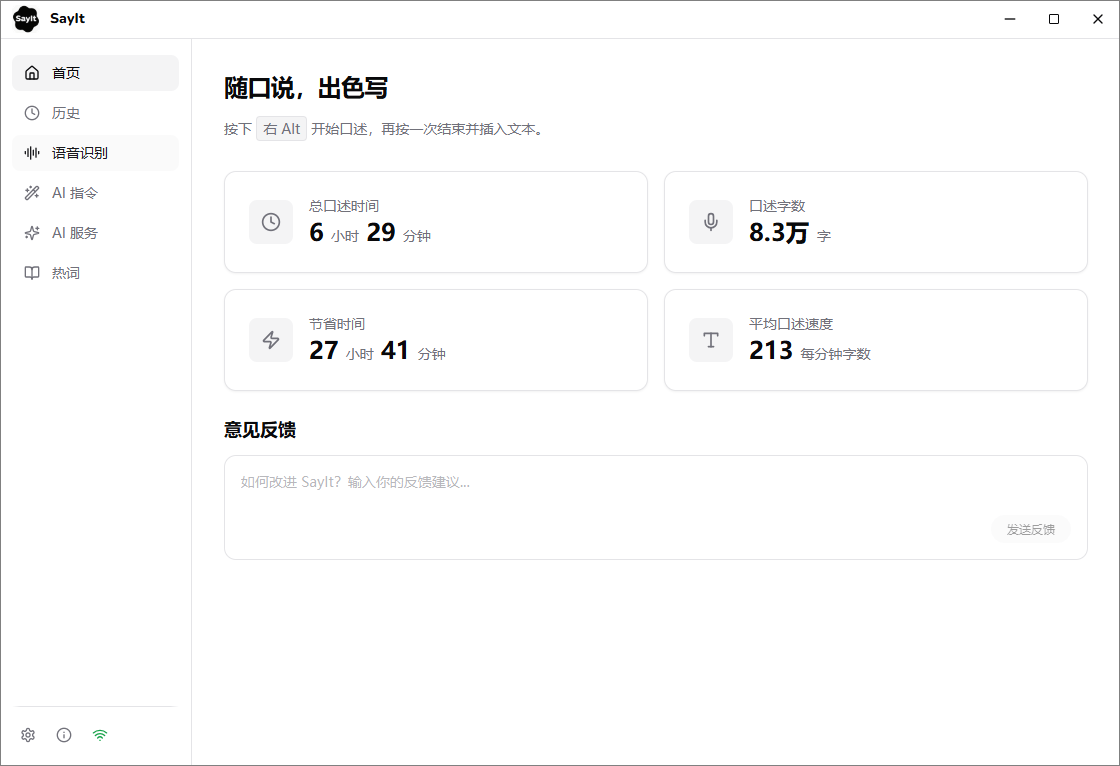
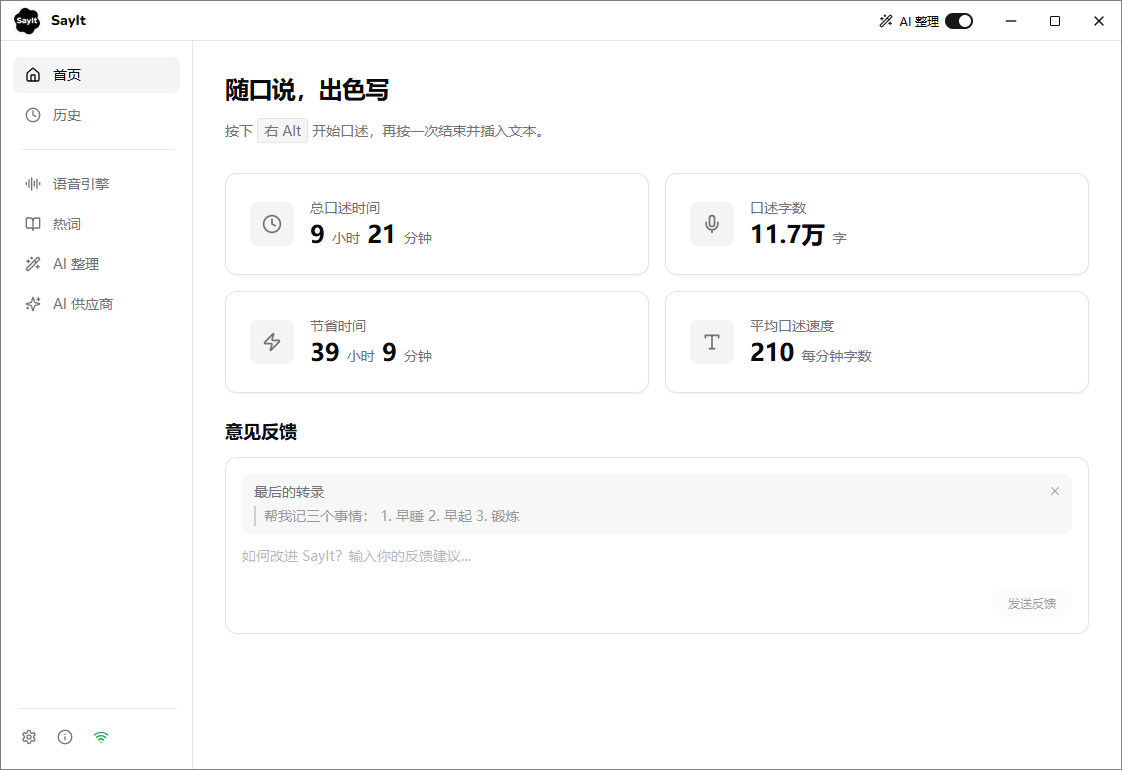
chore: 发布 0.0.7 - 更新主界面截图、新增微信反馈群、精简配置文档

diff --git a/client/src/services/personalization/defaults.ts b/client/src/services/personalization/defaults.ts
@@ -6,7 +6,7 @@ export const BUILTIN_APP_RULES: AppPromptRule[] = [
     appId: 'teams',
     name: 'Teams',
     builtin: true,
-    enabled: true,
+    enabled: false,
     priority: 100,
     presetId: 'intent',
     promptAppend: '适合即时协作聊天。优先输出可以直接发送的短消息，语气自然、清晰、简洁，避免邮件腔。',
@@ -20,7 +20,7 @@ export const BUILTIN_APP_RULES: AppPromptRule[] = [
     appId: 'outlook',
     name: 'Outlook',
     builtin: true,
-    enabled: true,
+    enabled: false,
     priority: 95,
     presetId: 'intent',
     promptAppend: '适合工作邮件草稿。语气正式、完整，必要时自然分段，但不要编造收件人、称呼或任何事实。',
@@ -34,7 +34,7 @@ export const BUILTIN_APP_RULES: AppPromptRule[] = [
     appId: 'kiro',
     name: 'Kiro',
     builtin: true,
-    enabled: true,
+    enabled: false,
     priority: 90,
     presetId: 'faithful',
     promptAppend: '面向开发工具输入。保留代码、命令、文件名、路径、英文标识符和 Markdown 结构，不要把技术词改写成普通中文。',
@@ -48,7 +48,7 @@ export const BUILTIN_APP_RULES: AppPromptRule[] = [
     appId: 'vscode',
     name: 'VSCode',
     builtin: true,
-    enabled: true,
+    enabled: false,
     priority: 85,
     presetId: 'faithful',
     promptAppend: '面向 VSCode 编辑区。保留代码、命令、文件名、API、英文术语和 Markdown 结构，不要过度润色技术内容。',
@@ -62,7 +62,7 @@ export const BUILTIN_APP_RULES: AppPromptRule[] = [
     appId: 'cursor',
     name: 'Cursor',
     builtin: true,
-    enabled: true,
+    enabled: false,
     priority: 80,
     presetId: 'faithful',
     promptAppend: '面向 Cursor 编辑区。保留代码、命令、路径、技术名词和英文标识符，不要擅自解释或补全技术内容。',
@@ -76,7 +76,7 @@ export const BUILTIN_APP_RULES: AppPromptRule[] = [
     appId: 'notepad',
     name: '记事本',
     builtin: true,
-    enabled: true,
+    enabled: false,
     priority: 70,
     presetId: 'intent',
     promptAppend: '面向 Windows 记事本，适合随手记录的纯文本。输出纯文本，不要使用 Markdown 标记或特殊格式符号。',

diff --git a/client/src/services/defaults.ts b/client/src/services/defaults.ts
@@ -22,7 +22,7 @@ export const DEFAULTS: Record<string, unknown> = {
   selectedMic: '', // 设备 ID，空字符串 = 系统默认
 
   // ── AI 校对 ──
-  aiEnabled: false, // 是否开启 AI 校对。可选: true | false
+  aiEnabled: true, // 是否开启 AI 校对。可选: true | false
   aiPromptAppend: '', // 全局附加 prompt
 
   // ── AI 供应商 ──

diff --git a/client/src/services/personalization/store.ts b/client/src/services/personalization/store.ts
@@ -39,7 +39,7 @@ function normalizeAppPromptRule(raw: unknown, fallback?: AppPromptRule): AppProm
     appId,
     name,
     builtin: value.builtin === true || fallback?.builtin === true,
-    enabled: typeof value.enabled === 'boolean' ? value.enabled : fallback?.enabled ?? true,
+    enabled: typeof value.enabled === 'boolean' ? value.enabled : fallback?.enabled ?? false,
     priority,
     presetId: String(value.presetId ?? fallback?.presetId ?? '').trim() || undefined,
     promptAppend: String(value.promptAppend ?? fallback?.promptAppend ?? '').trim(),

diff --git a/client/src-tauri/src/main.rs b/client/src-tauri/src/main.rs
@@ -178,10 +178,20 @@ fn main() {
             hook.start(app.handle(), &ptt_str, &hf_str);
 
             // 设置窗口图标（用 ICO 文件，包含多尺寸帧，Windows 自动选最合适的）
+            // 并根据启动方式决定是否显示主窗口：
+            // 开机自启会带 --minimized 参数 → 保持隐藏，静默停留在托盘
+            // 用户手动打开则正常显示（窗口配置为 visible:false，需显式 show）
+            let launched_minimized = std::env::args().any(|arg| arg == "--minimized");
             if let Some(main_window) = app.get_webview_window("main") {
                 let ico_bytes = include_bytes!("../icons/icon.ico");
                 if let Ok(icon) = tauri::image::Image::from_bytes(ico_bytes) {
                     let _ = main_window.set_icon(icon);
+                }
+                if !launched_minimized {
+                    let _ = main_window.show();
+                    let _ = main_window.set_focus();
+                } else {
+                    log::info!("Launched with --minimized, staying hidden in tray");
                 }
             }
 
@@ -261,14 +271,26 @@ fn main() {
             {
                 use tauri_plugin_autostart::ManagerExt;
                 let storage: tauri::State<Storage> = app.state();
+                let autostart = app.autolaunch();
                 let already_set = storage.get("autoLaunchInitialized", None);
                 if already_set.is_null() || already_set.as_str() == Some("") {
-                    // 首次运行，注册开机自启并标记
-                    let autostart = app.autolaunch();
+                    // 首次运行，注册开机自启并标记（新注册已带 --minimized 参数）
                     let _ = autostart.enable();
                     let flag = serde_json::json!("true");
                     let _ = storage.set("autoLaunchInitialized", &flag);
+                    let _ = storage.set("autoLaunchArgsMigrated", &flag);
                     log::info!("Auto-launch enabled on first run");
+                } else {
+                    // 老用户迁移：旧自启项不带 --minimized 参数，重新注册一次以写入新参数
+                    let migrated = storage.get("autoLaunchArgsMigrated", None);
+                    if migrated.as_str() != Some("true") {
+                        if autostart.is_enabled().unwrap_or(false) {
+                            let _ = autostart.disable();
+                            let _ = autostart.enable();
+                            log::info!("Auto-launch re-registered with --minimized arg");
+                        }
+                        let _ = storage.set("autoLaunchArgsMigrated", &serde_json::json!("true"));
+                    }
                 }
             }
 
@@ -284,7 +306,7 @@ fn main() {
         // .plugin(tauri_plugin_process::init())
         .plugin(tauri_plugin_autostart::init(
             tauri_plugin_autostart::MacosLauncher::LaunchAgent,
-            None,
+            Some(vec!["--minimized"]),
         ))
         .invoke_handler(tauri::generate_handler![
             // Store

diff --git a/client/src-tauri/src/commands/system.rs b/client/src-tauri/src/commands/system.rs
@@ -246,7 +246,11 @@ pub fn check_for_updates() -> Result<Value, String> {
 /// 下载更新安装包到临时目录
 #[tauri::command]
 pub async fn download_update(url: String) -> Result<String, String> {
-    let client = reqwest::Client::new();
+    // 必须带 User-Agent：生产环境 AWS WAF 的 NoUserAgent_HEADER 规则会拦截无 UA 的请求（403）
+    let client = reqwest::Client::builder()
+        .user_agent(concat!("SayIt/", env!("CARGO_PKG_VERSION")))
+        .build()
+        .map_err(|e| format!("初始化下载客户端失败: {}", e))?;
     let resp = client
         .get(&url)
         .timeout(std::time::Duration::from_secs(300))

diff --git a/README.md b/README.md
@@ -170,7 +170,7 @@ SayIt/
 | 语音识别 | Qwen3-ASR + vLLM / 豆包 ASR / 千问 ASR / sherpa-onnx |
 | AI 润色 | DeepSeek / 通义千问 / Azure OpenAI / Ollama |
 | 部署 | Docker Compose、NVIDIA Container Toolkit |
-| 开发 | 整个项目使用 Claude Opus 4.6 开发 |
+| 开发 | 整个项目使用 Claude Opus 开发 |
 
 ## 开发
 
@@ -194,6 +194,18 @@ cd backend && uvicorn app.main:app --port 8000
 ```
 
 前置要求：Python 3.10+、NVIDIA GPU + CUDA
+
+## 交流反馈
+
+有任何问题、建议或想法，欢迎扫码加入用户反馈微信群，一起交流：
+
+<div align="center">
+
+<img src="docs/images/readme/SayIt%20用户反馈微信群.jpg" width="240" alt="SayIt 用户反馈微信群">
+
+*微信扫码加入 SayIt 用户反馈群*
+
+</div>
 
 ## 贡献
 